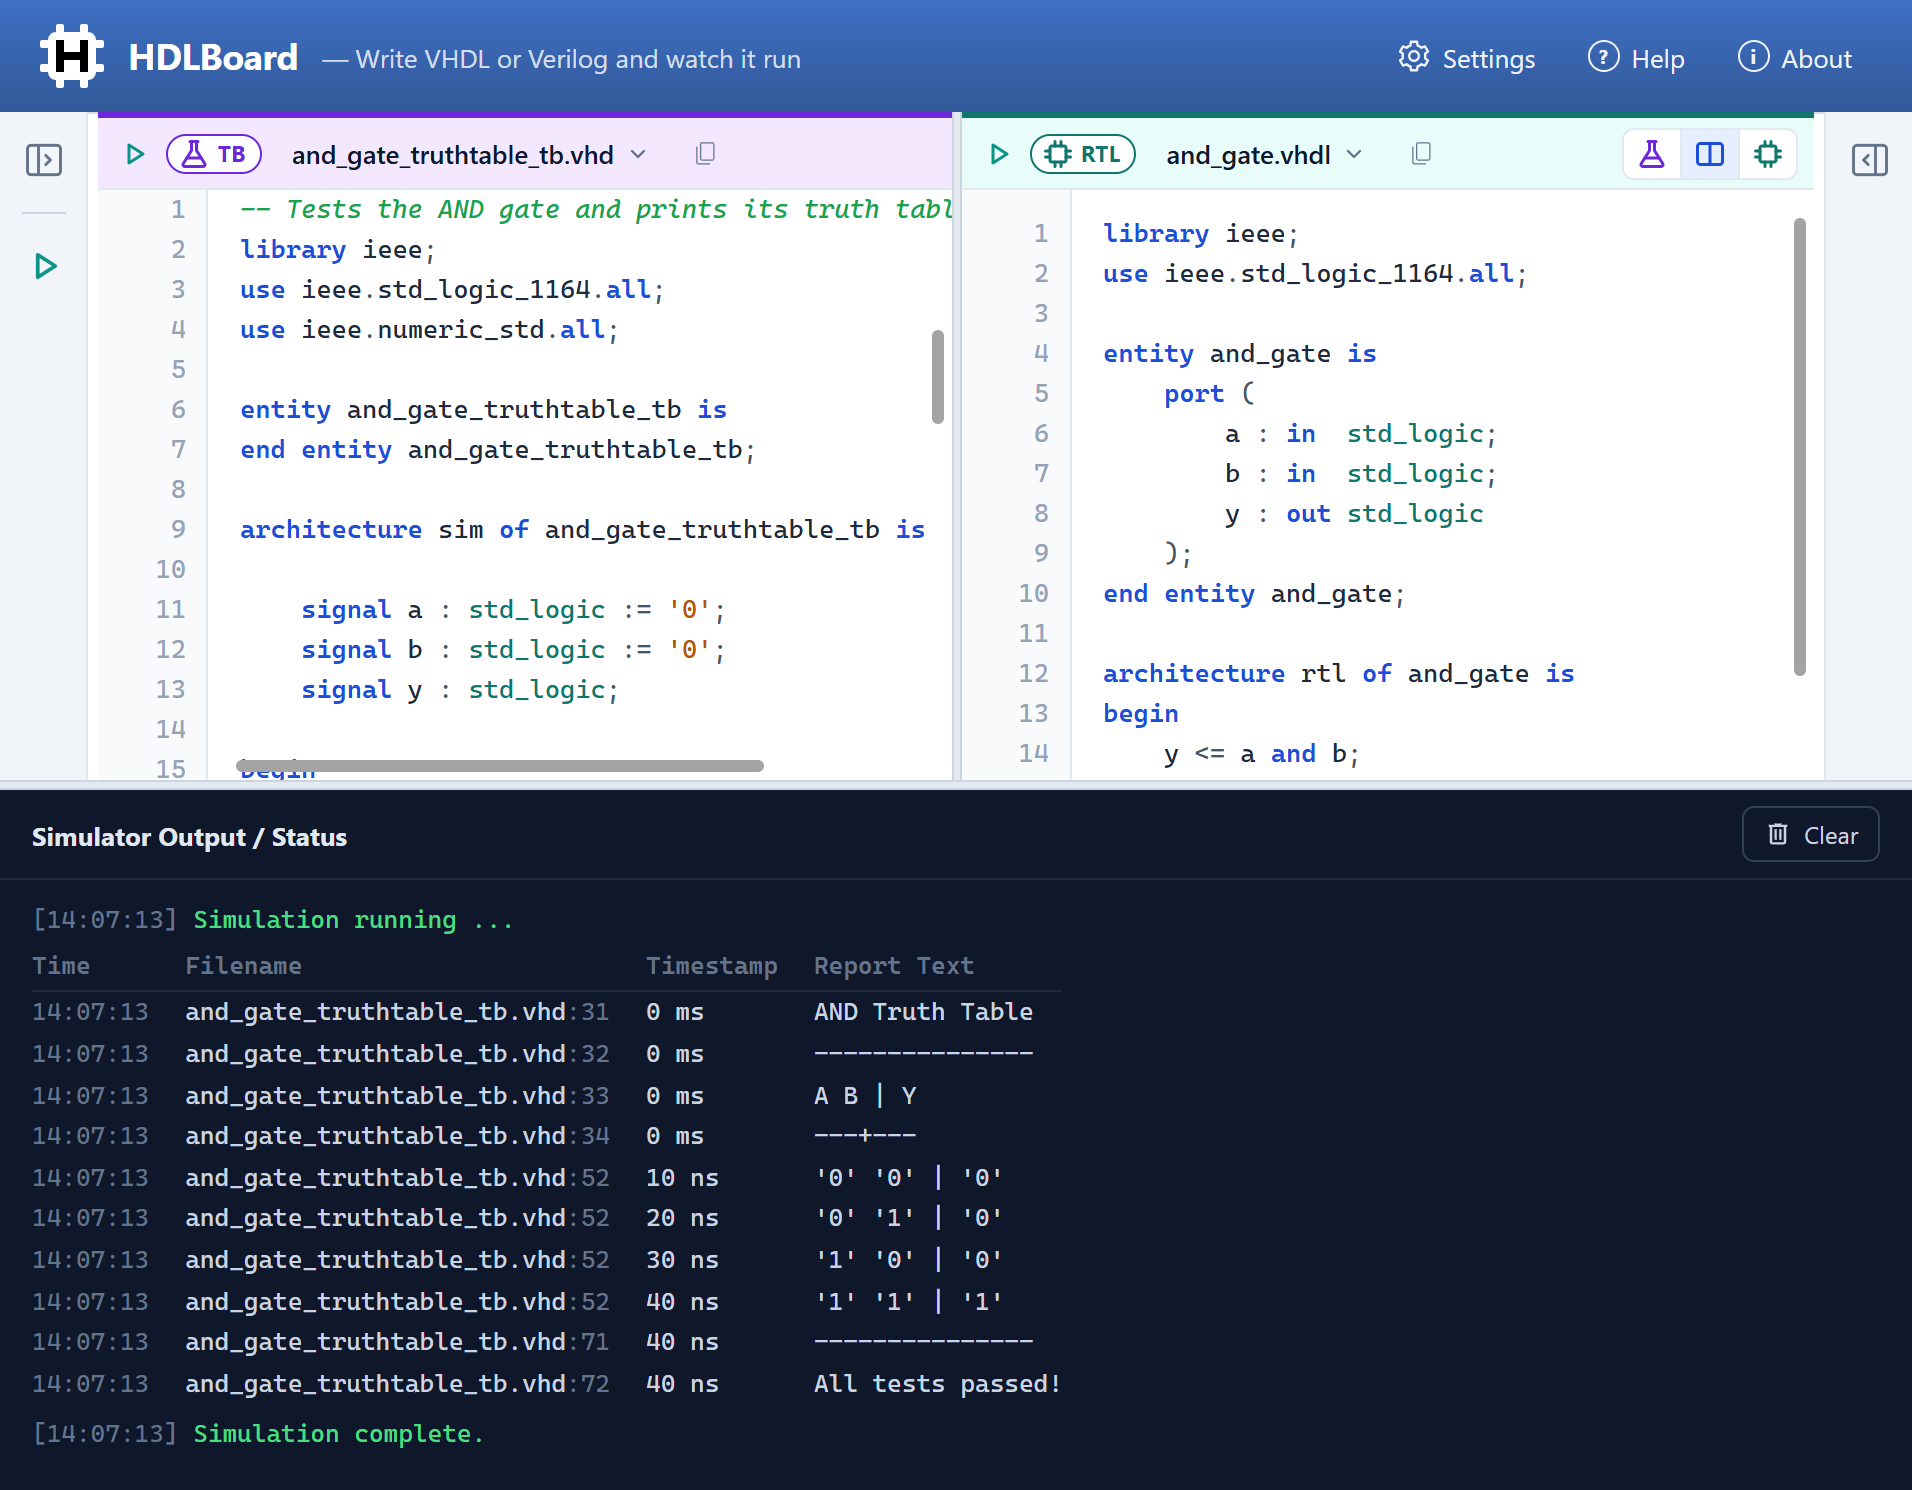
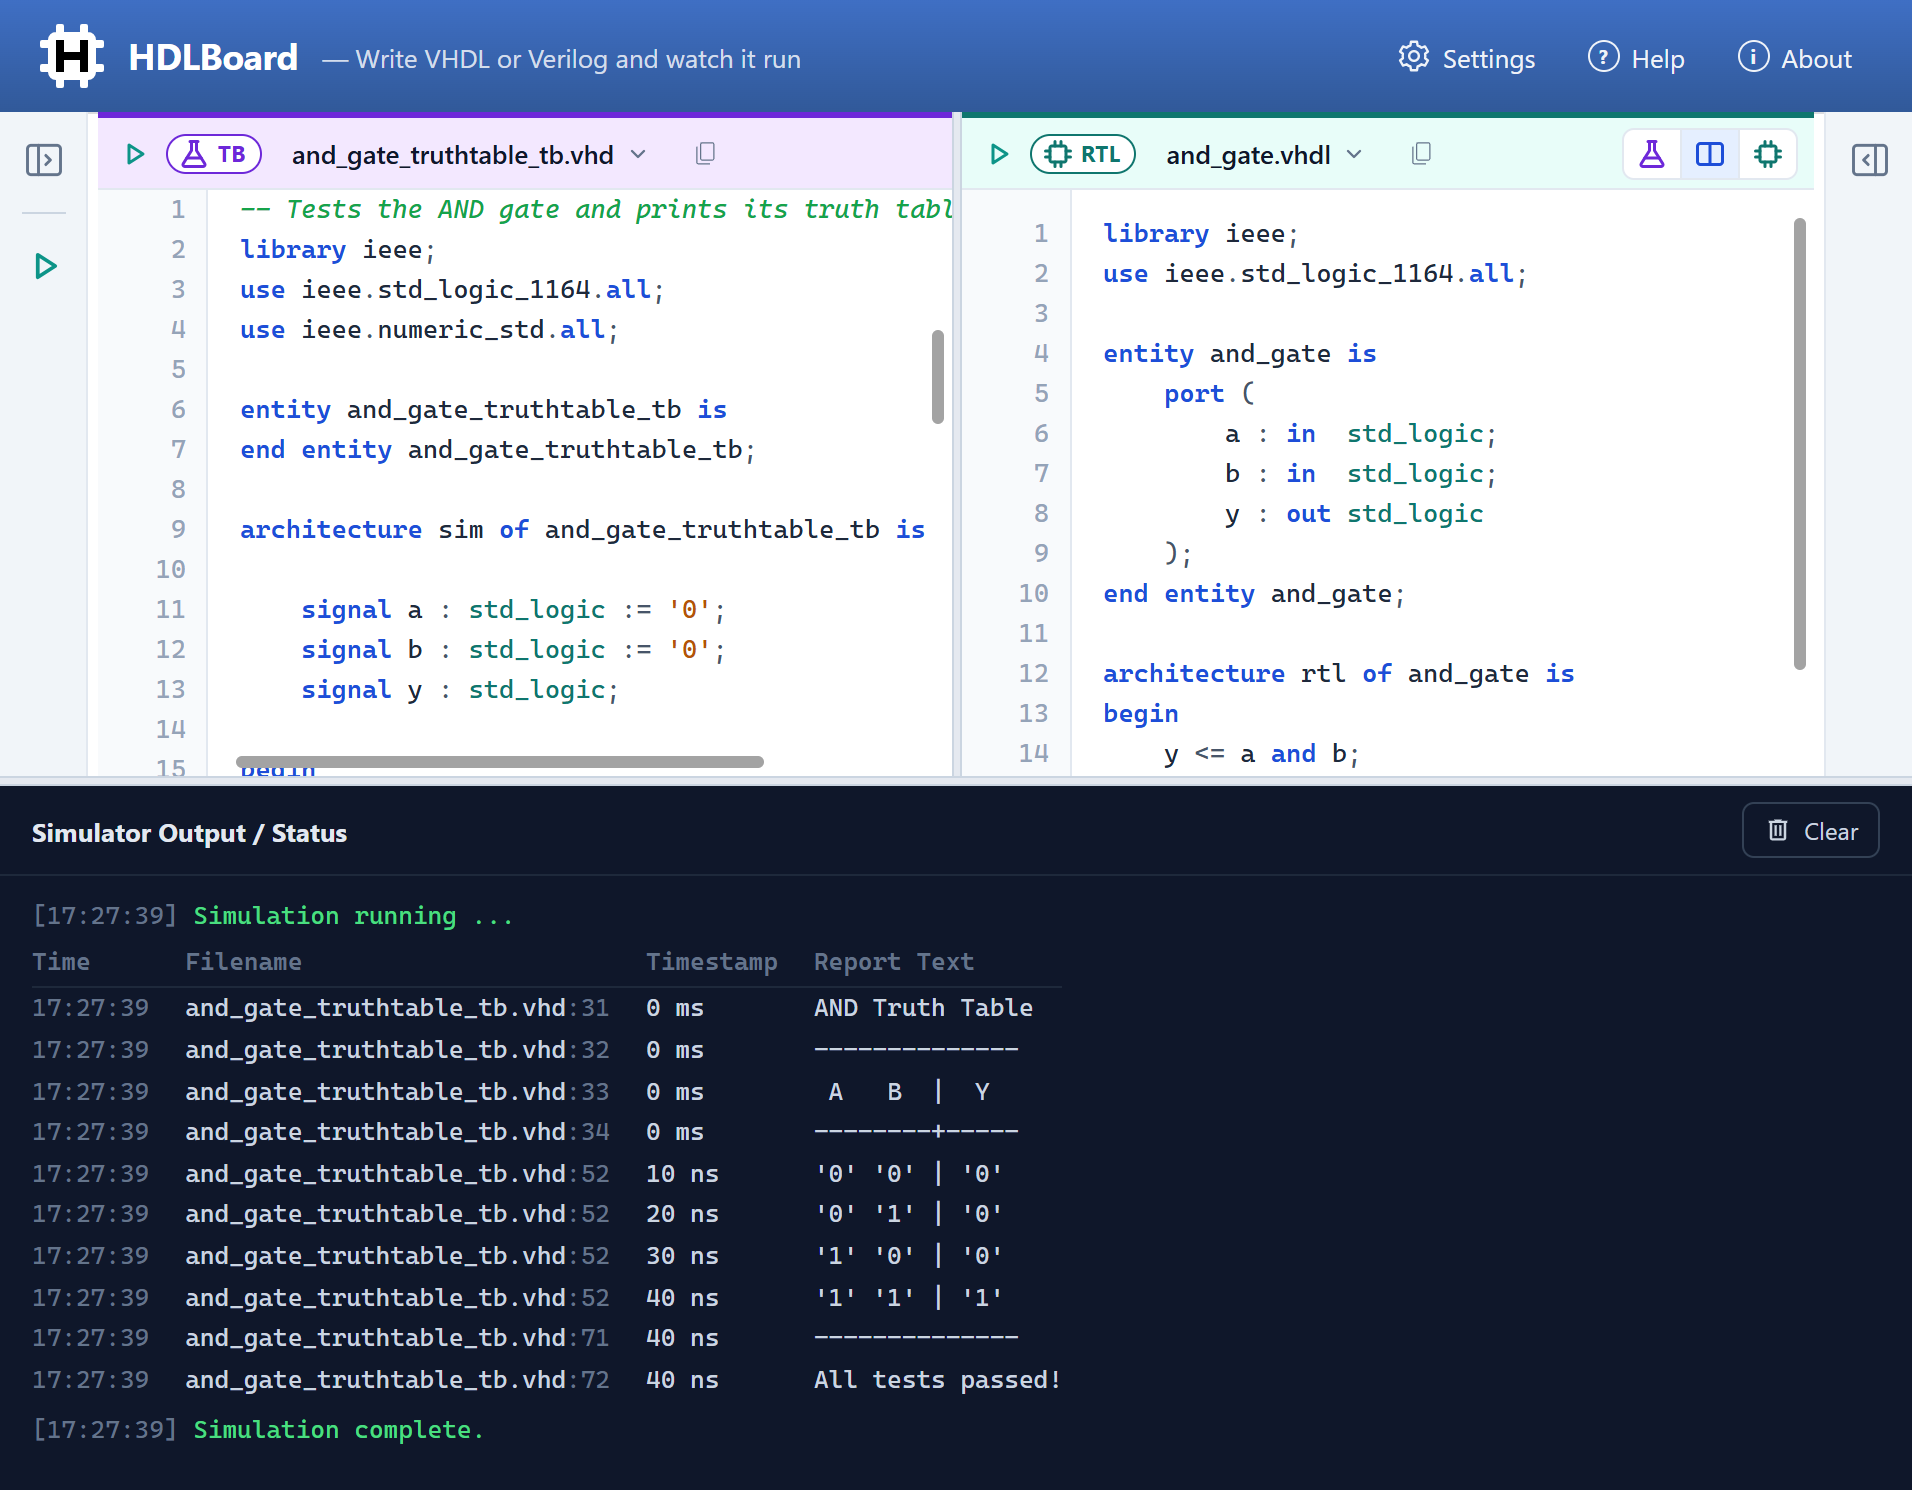
Landing page: testbench screenshot with the aligned truth-table header
assets/testbench.png is retaken the same way (1912x1490, 2x, shown at
956x745) now that the AND truth-table testbench prints " A   B  |  Y  "
and "--------+-----", lined up with the rows. ?v=3 makes browsers fetch
the new picture.

Changed region(s): [[0.0, 0.494, 1.0, 0.9879], [0.432, 0.6174, 0.5246, 0.8644], [0.432, 0.8953, 0.5554, 0.957]]

diff --git a/index.html b/index.html
@@ -203,7 +203,7 @@
         <p>Automatically places your test and design. Press play to see the results.</p>
       </div>
       <a class="split-media testbench-shot" href="assets/testbench.png" target="_blank" rel="noopener" tabindex="-1">
-        <img src="assets/testbench.png?v=2" width="956" height="745" loading="lazy"
+        <img src="assets/testbench.png?v=3" width="956" height="745" loading="lazy"
              alt="HDLBoard in split view: the AND gate truth-table testbench on the left, the AND gate design it tests on the right, and the console below listing the testbench's reports as a table - time, file and line, simulation time and text - from the truth table to All tests passed" />
       </a>
       <p class="testbench-note">Nothing to set up. Switch between TB (test), Both and RTL (design) any time.</p>
